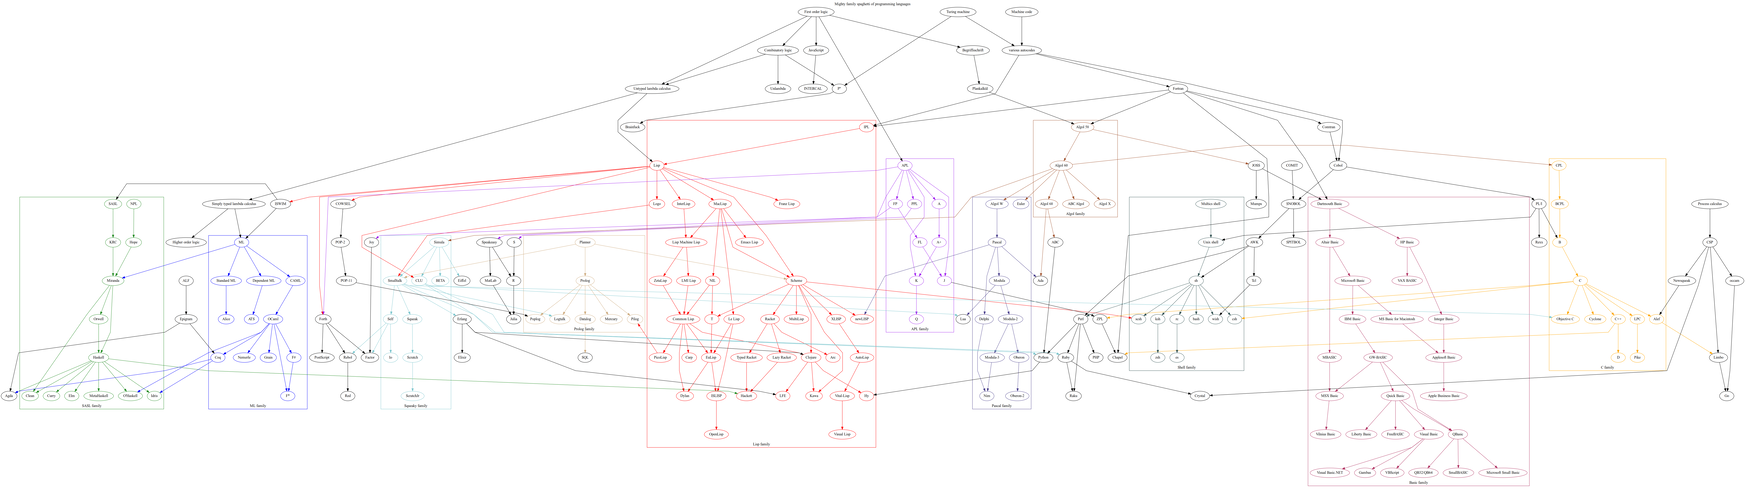
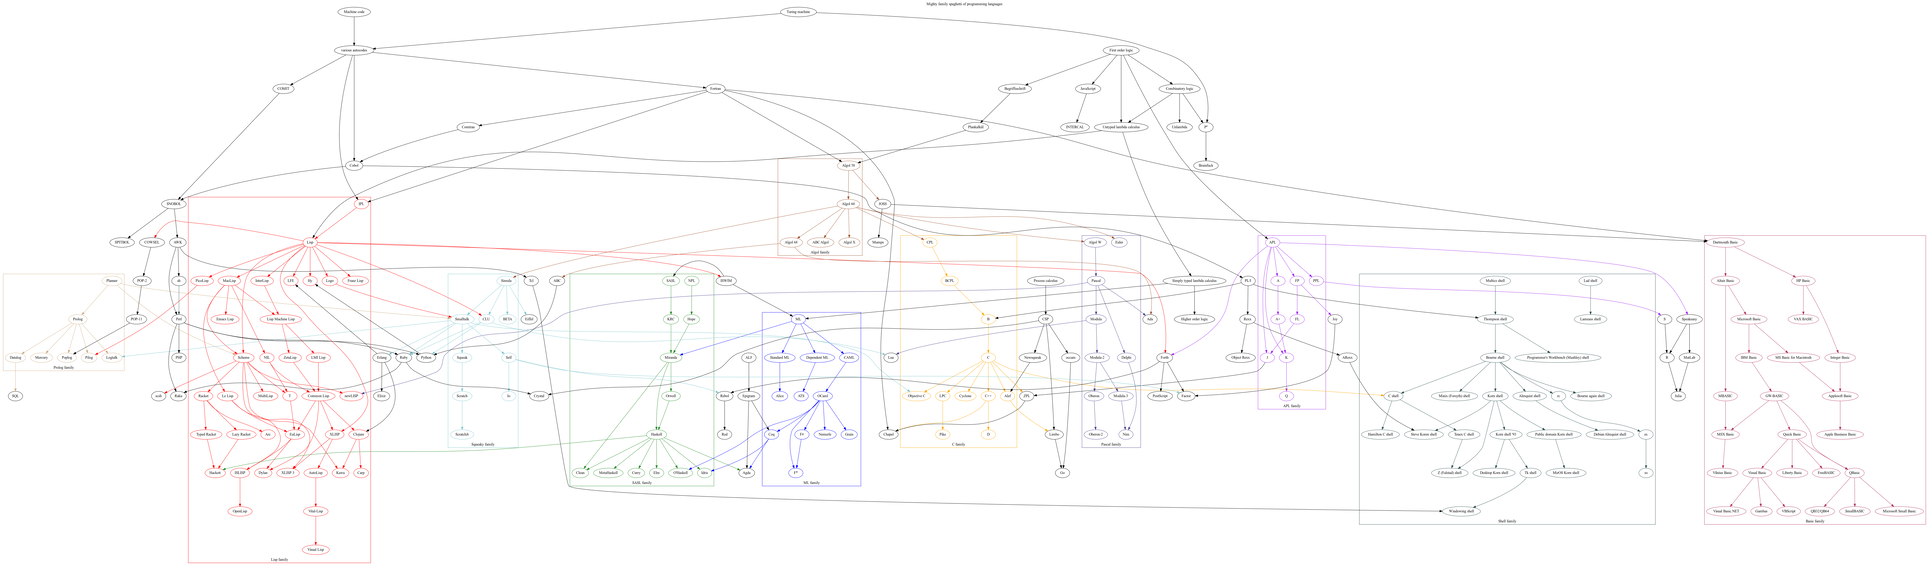
Mention Lisp tree etc

diff --git a/blog/190208/spaghetti/index.html b/blog/190208/spaghetti/index.html
@@ -45,8 +45,10 @@
         <p>
           <b>Author:</b>
             Erkin Batu Altunbaş
+          <br/>
           <b>Created:</b>
           <time>2019-02-08</time>
+          <br/>
           <b>Updated:</b>
           <time>2019-02-10</time>
         </p>
@@ -91,7 +93,8 @@
             </li>
             <li>
               Marc Paquette for pointing out that I should include ABC
-              as a Python influence.
+              as a Python influence and helping me on shell genealogy.
+              (See below.)
             </li>
             <li>
               Jonatan Andersson for pointing out that Newsqueak is not
@@ -100,9 +103,8 @@
             <li>
               Rainer Joswig for pointing out that Logo is older than
               Scheme, correcting me about XLISP versions and sending me
-              <a href="https://www.dreamsongs.com/Files/Hopl2Slides.pdf">
-                this immensely helpful graph</a> on history of Lisp
-              dialects.
+              a helpful graph on the history of Lisp dialects.
+              (See below.)
             </li>
           </ul>
         </p>
@@ -253,6 +255,14 @@
         tells you nothing at all. For instance, PicoLisp and Carp are
         pigeonholed into descending from Common Lisp, but they're actually
         completely independent projects.
+        <b>Edit:</b> I ended up attaching them to the now-generic "Lisp" node.
+      </p>
+
+      <p>
+        Rainer Joswig sent me
+        <a href="https://www.dreamsongs.com/Files/Hopl2Slides.pdf">
+        this immensely helpful graph</a> on Lisp genealogy, which I might use
+        to rewrite the this branch later on.
       </p>
 
       <h3>Basics</h3>
